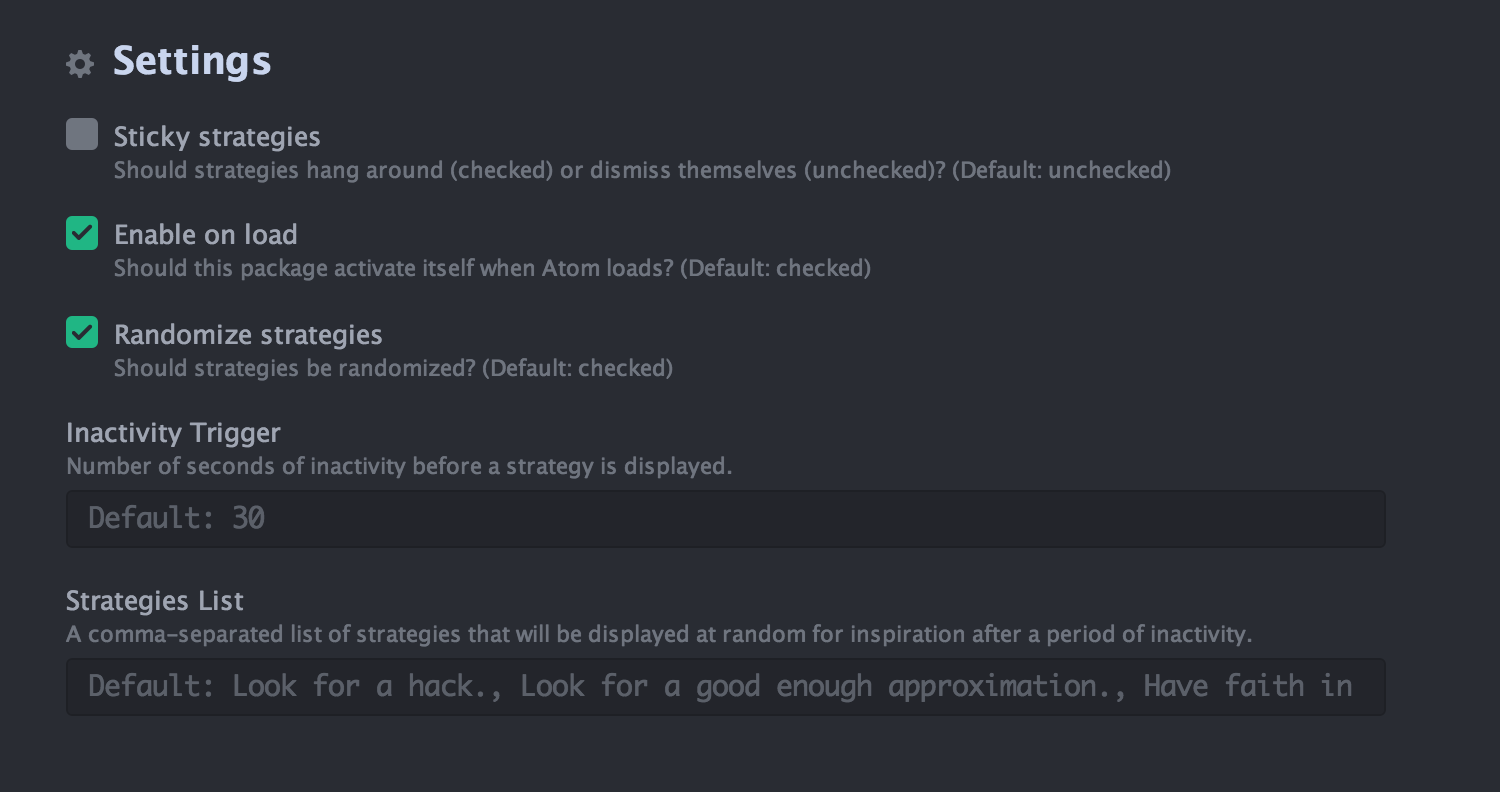
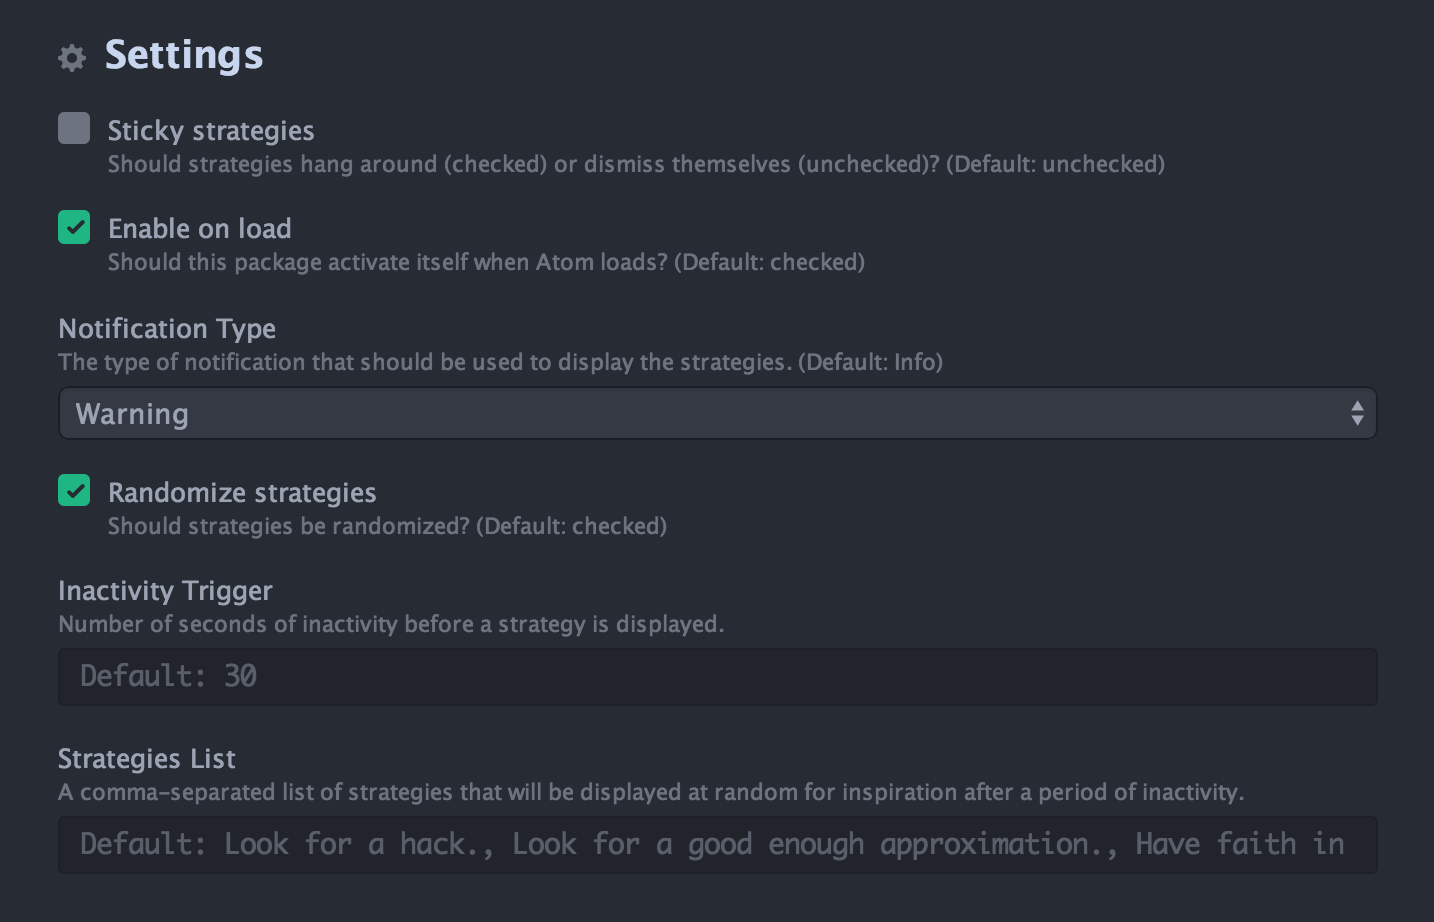
Update settings.

diff --git a/README.md b/README.md
@@ -16,8 +16,9 @@ In 1975, Brian Eno and Peter Schmidt created a deck of cards printed with aphori
 * Download the [Atom editor](https://atom.io)
 * Install the [oblique-strategies package](https://atom.io/packages/oblique-strategies)
 * Configure the package to your liking:
-  * *Enable on load* - Checked if the package should load automatically.
   * *Sticky strategies* - Checked if strategies should not auto-dismiss.
+  * *Enable on load* - Checked if the package should load automatically.
+  * *Notification type* - Select the type of notification that should be used to display strategies.
   * *Randomize strategies* - Checked if strategies should be displayed in random order.
   * *Inactivity trigger* - Number of seconds of inactivity before a strategy will be displayed.
   * *Strategies list* - A comma-separated list of strategies that will be used instead of the default strategies that come with this package.
